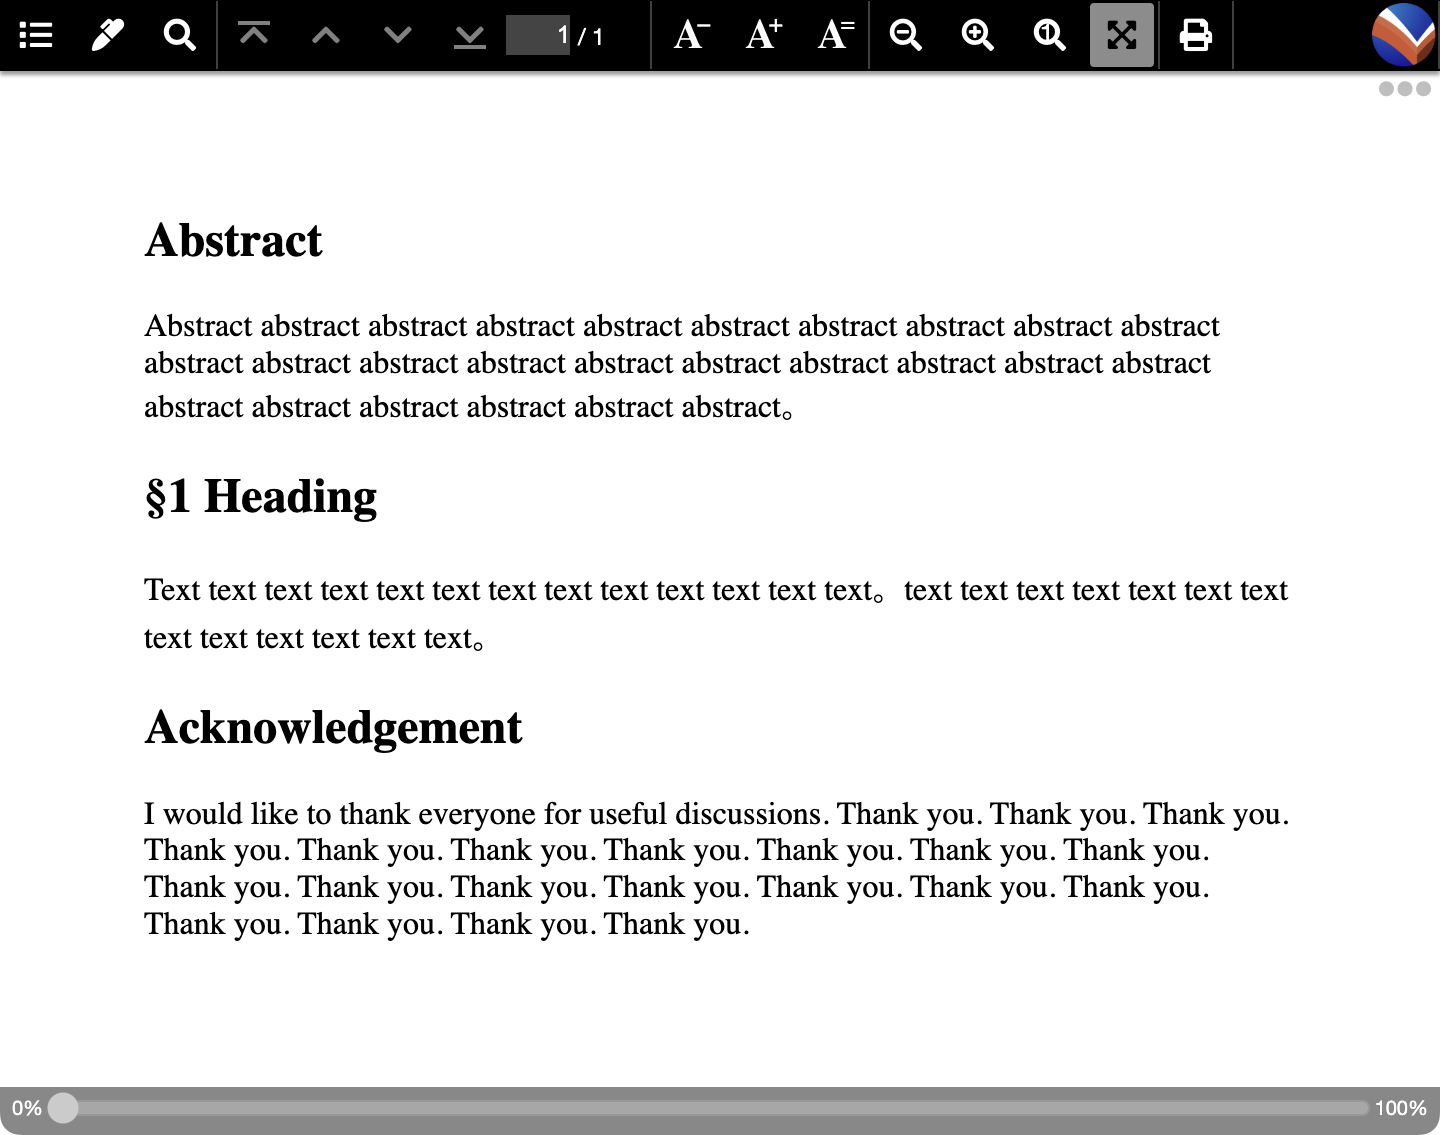
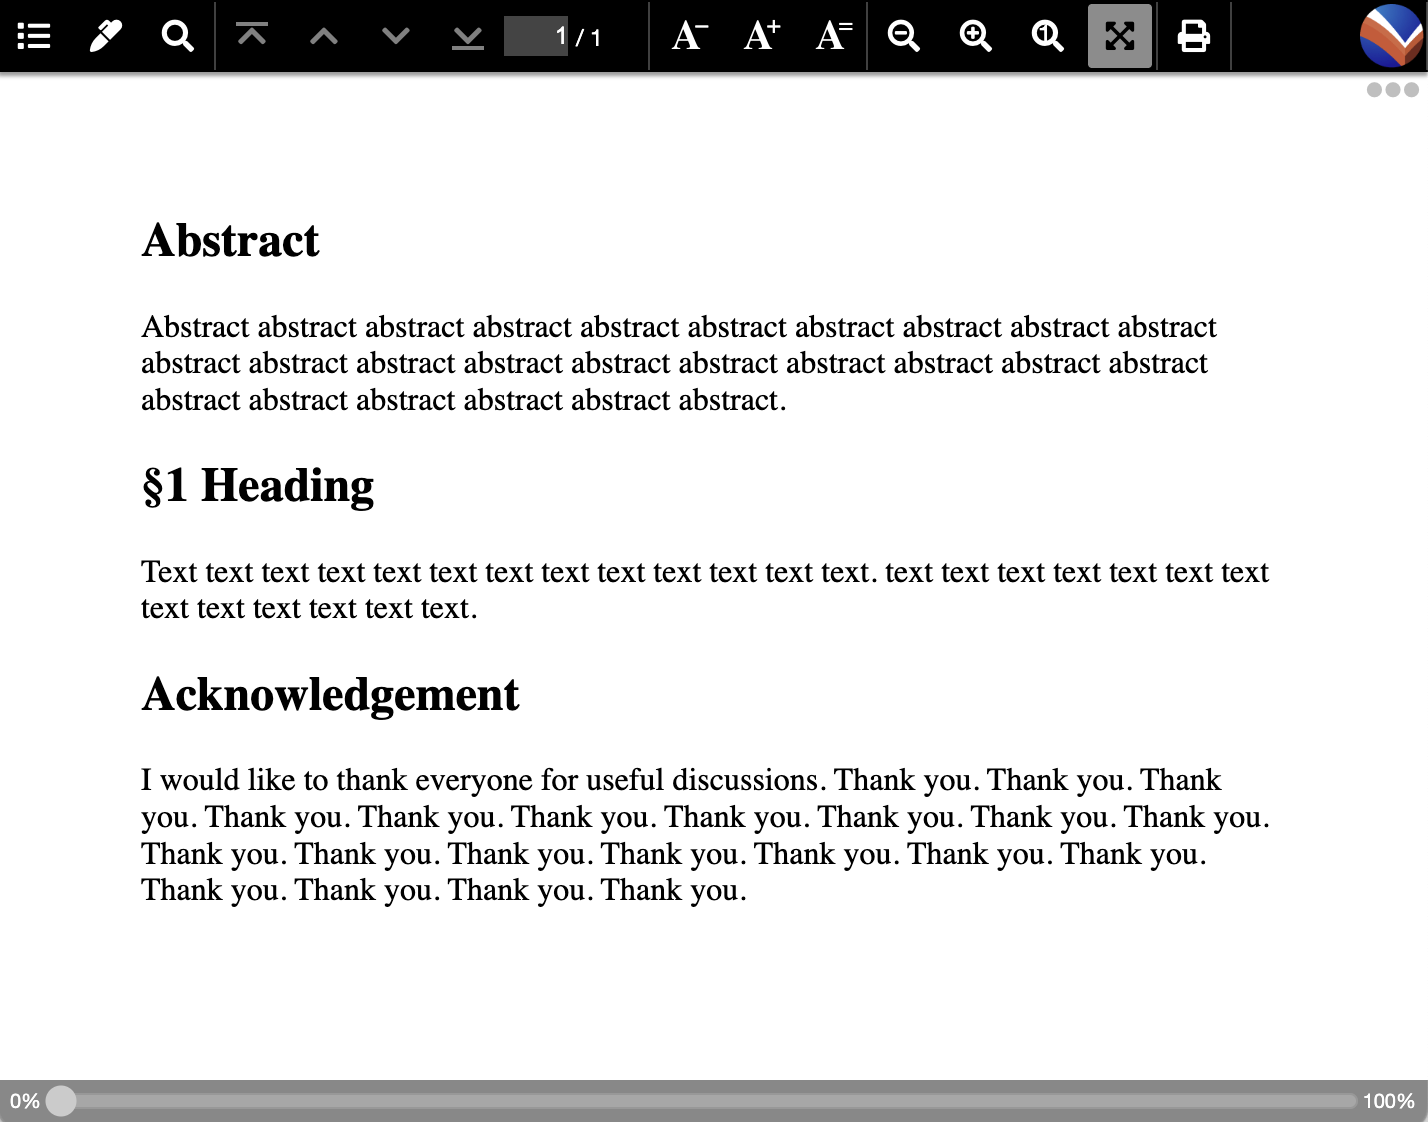
句読点を修正

diff --git a/sample/sample11-1.md b/sample/sample11-1.md
@@ -11,7 +11,7 @@ Abstract abstract abstract abstract abstract abstract abstract abstract abstract
 
 ## Heading
 
-Text text text text text text text text text text text text text。text text text text text text text text text text text text text。
+Text text text text text text text text text text text text text. text text text text text text text text text text text text text.
 
 ## Acknowledgement{.acknowledgement}
 
